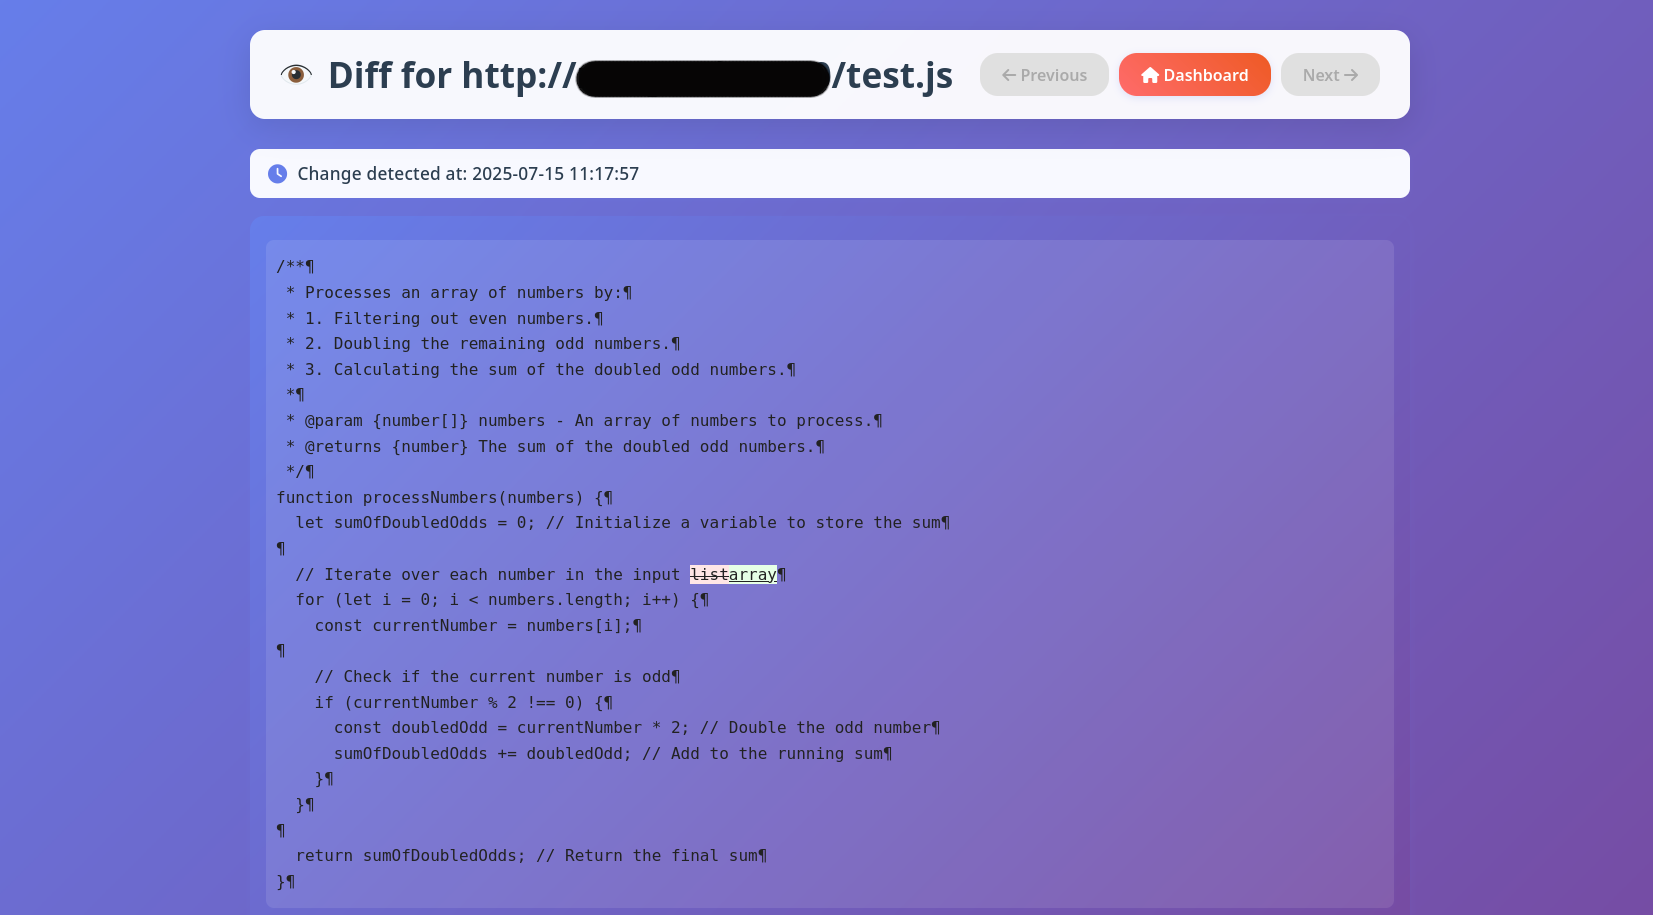
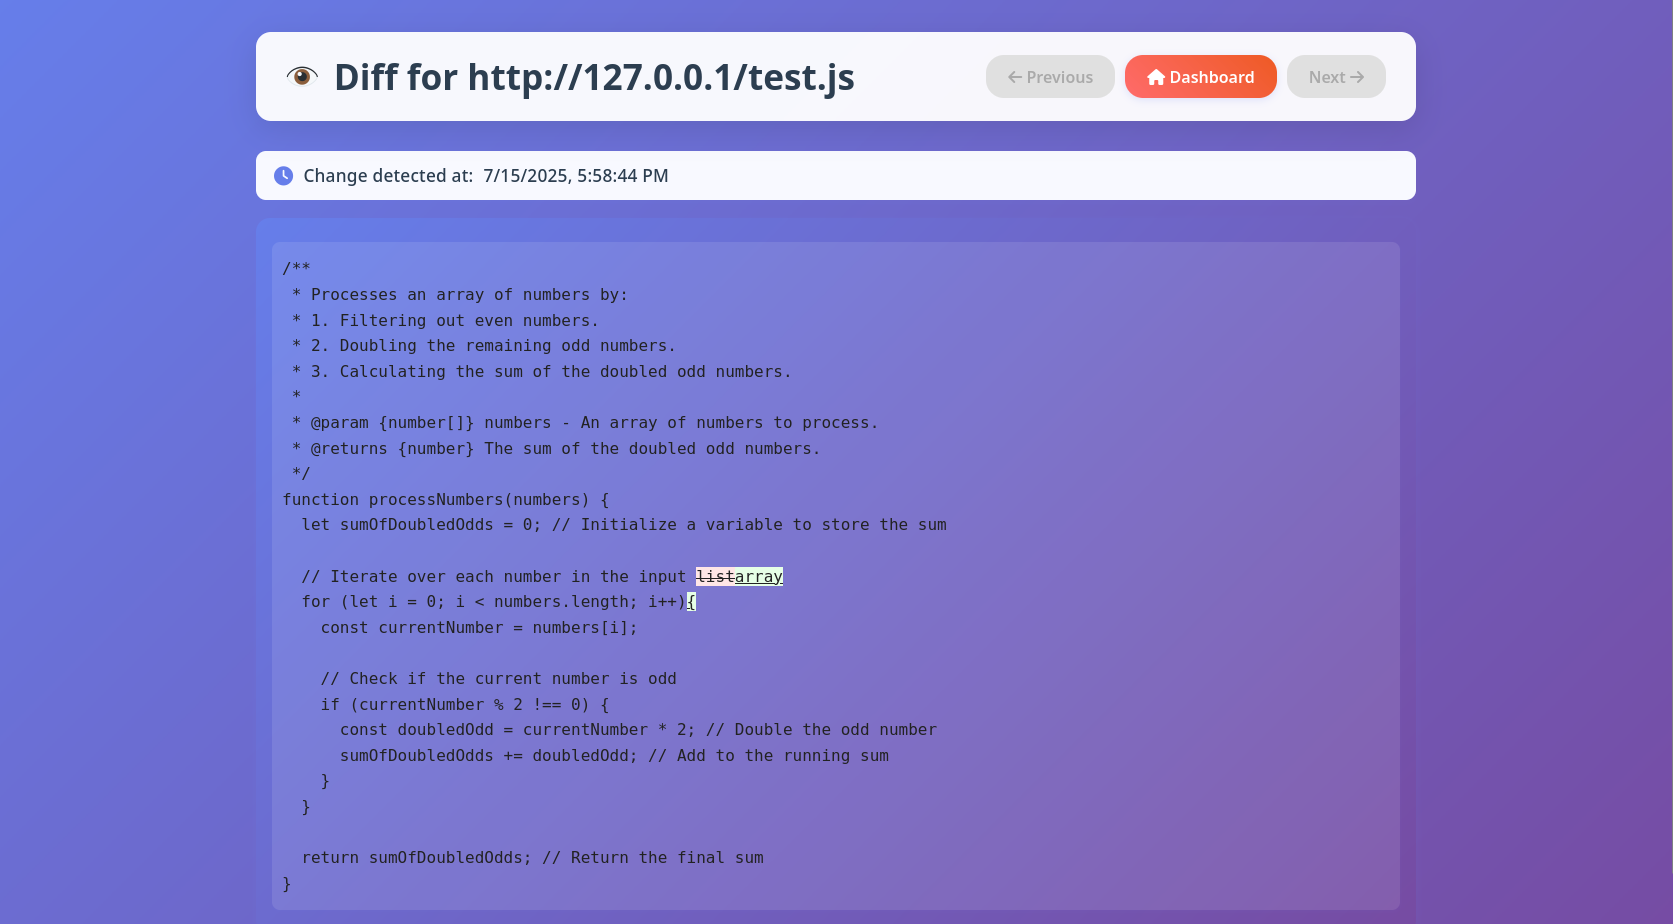
Fix extra annoying character at diff content

diff --git a/services/watcher.go b/services/watcher.go
@@ -7,6 +7,7 @@ import (
 	"log"
 	"net/http"
 	"strconv"
+	"strings"
 	"time"
 
 	"go-js-watcher/database" // Import your database package
@@ -160,6 +161,7 @@ func CheckURLForChanges(urlID uint, diffViewBaseURL, botToken, chatID string) st
 		diffs := dmp.DiffMain(urlEntry.LastContent, currentContent, true)
 		dmp.DiffCleanupSemantic(diffs)
 		htmlDiff := dmp.DiffPrettyHtml(diffs)
+		htmlDiff = strings.ReplaceAll(htmlDiff, "&para;<br>", "<br>")
 
 		newChange := models.ChangeEvent{
 			URLID:      urlEntry.ID,
